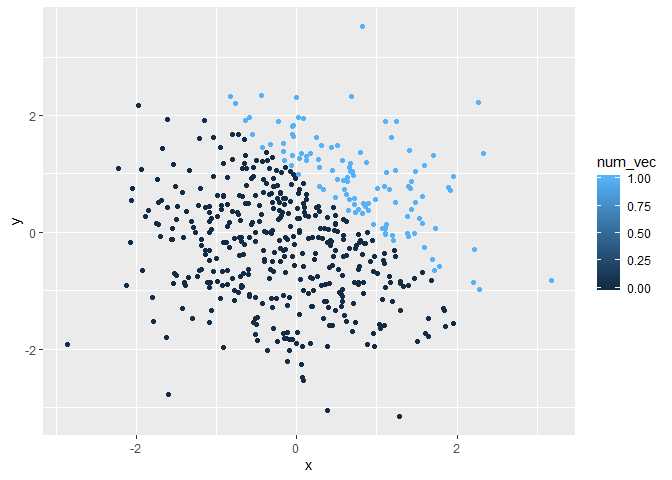
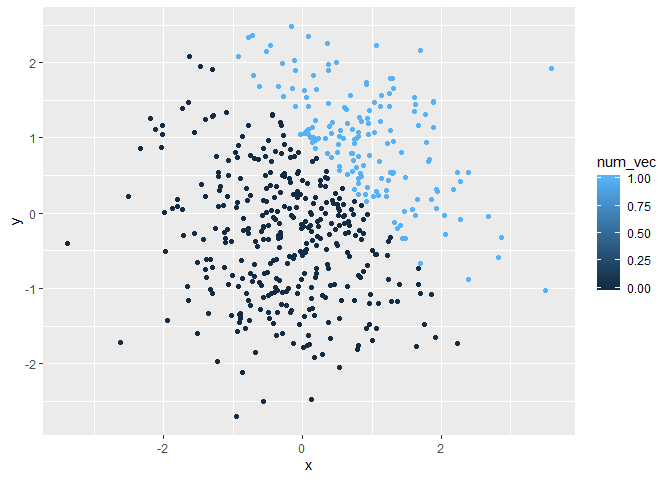
Edited the text to describe what I did for problem 1 and 2.

diff --git a/p8105_hw1_kq2127.md b/p8105_hw1_kq2127.md
@@ -17,13 +17,13 @@ p1_df = tibble(
 mean(pull(p1_df, sample))
 ```
 
-    ## [1] -0.6279693
+    ## [1] 0.3811656
 
 ``` r
 mean(pull(p1_df, gr_th_0))
 ```
 
-    ## [1] 0.25
+    ## [1] 0.5
 
 ``` r
 mean(pull(p1_df, vec_char))
@@ -44,10 +44,10 @@ mean(pull(p1_df, vec_factor))
     ## [1] NA
 
 When I take the mean of the first two variables in my data frame I get a
-result. The mean variable sample is -0.6279693 and the mean of variable
-gr\_th\_0 is 0.25 . I was not able to take the mean of the last two
-variables, vec\_char and vec\_factor because these two variables are not
-numeric or logical.
+result. The mean of the variable sample is 0.3811656 and the mean of
+variable gr\_th\_0 is 0.5 . I was not able to take the mean of the last
+two variables, vec\_char and vec\_factor because these two variables are
+not numeric or logical.
 
 ``` r
 as.numeric(pull(p1_df, gr_th_0))
@@ -57,12 +57,18 @@ as.numeric(pull(p1_df, vec_char))
 as.numeric(pull(p1_df, vec_factor))
 ```
 
-When I convert the logical, character, and factor variables, only the
-logical variable is converted into 0s and 1s. The character variable is
-converted into NAs and the factor variable is converted into … . This
-explains why we were able to take the mean of the logical variable, but
-not the mean of the character or factor variables. We can take a mean of
-a variable with numeric values of 0s and 1s, but not of NAs.
+When I convert the logical, character, and factor variables into
+numeric, the values of the logical variable are converted into 0s and
+1s, the values of the factor variable are converted into 1s, 2s, and 3s
+and the values of the character variable are converted into NAs. Logical
+variables are stored as 0 and 1 on the back end, so it makes sense that
+they can be converted into numeric easily. There is no way to store the
+character variable into numeric, which is why NA was set for all the
+values of the converted character variable. The factor variable assigns
+levels, which is why it can convert into numeric values of 1s, 2s, and
+3s, but these values do not mean anything and only represent differing
+categories/levels. This helps explain why we can take the mean of the
+logical variable, but not of the character or factor variables.
 
 ``` r
 gr_th_0_num = as.numeric(pull(p1_df, gr_th_0))
@@ -70,8 +76,8 @@ gr_th_0_num = as.numeric(pull(p1_df, gr_th_0))
 gr_th_0_num*(pull(p1_df, sample))
 ```
 
-    ## [1] 0.0000000 0.0000000 0.0000000 0.5968268 1.1619265 0.0000000 0.0000000
-    ## [8] 0.0000000
+    ## [1] 1.588175445 0.000000000 0.000000000 0.001019169 0.000000000 0.687280420
+    ## [7] 2.172971773 0.000000000
 
 ``` r
 gr_th_0_fac = as.factor(pull(p1_df, gr_th_0))
@@ -90,8 +96,8 @@ gr_th_0_fac_num = as.numeric(as.factor(pull(p1_df, gr_th_0)))
 gr_th_0_fac_num*(pull(p1_df, sample))
 ```
 
-    ## [1] -1.3504008 -0.1808372 -2.4357166  1.1936536  2.3238529 -1.4670792
-    ## [7] -0.9707894 -0.3776845
+    ## [1]  3.176350890 -0.570177860 -0.138886369  0.002038338 -0.009983357
+    ## [6]  1.374560841  4.345943545 -0.681074384
 
 # Problem 2
 
@@ -106,9 +112,9 @@ p2_df = tibble(
 ```
 
 The size of the dataset is 500 rows and 5 columns. The mean of x is
--0.0122498, the median is -0.0536408, and the standard deviation of x is
-0.9463382. The proportion of cases for which x + y \> 1
-is
+0.1089143, the median of x is 0.0906004, and the standard deviation of x
+is 1.0058983. The proportion of cases for which x + y \> 1 is
+0.312.
 
 ``` r
 xy_plot_l = ggplot(p2_df, aes(x = x, y = y, color = gr_th_1)) + geom_point()
@@ -140,5 +146,11 @@ ggsave("xy_plot.png")
 
     ## Saving 7 x 5 in image
 
-\`\`\` The color scale of the xy plot colored by the logical vector
-demonstrates
+The color scale of the xy plot colored by the logical vector
+demonstrates only two color options because the logical vector has two
+options: true or false. The color scale of the xy plot colored by the
+numeric vector demonstrates a spectrum of light blue to dark blue, but
+because the values for the numeric vector are only 0 and 1, we only see
+two colors and not a spectrum reflected on the plot. The color scale of
+the xy plot colored by the factor vector demonstrates only two color
+options because the factor vector has two levels of True and False.
